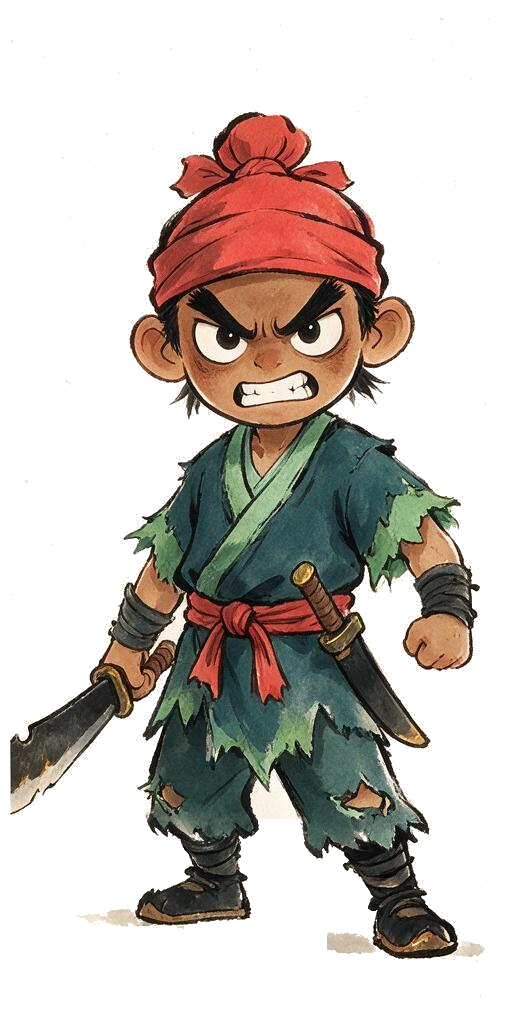
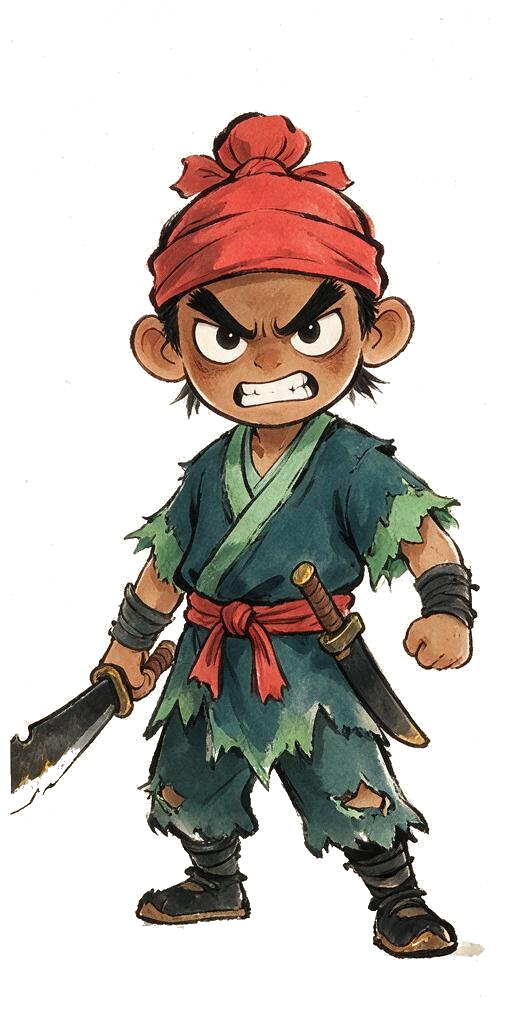
T04 返工②：山贼腿间残留二次清除（审计门过门）——工单点名4处（02腿间倒三角/左缘/脚下碎屑、03左下角）+ 完整审计清单追加3处腿部带块（02左脚下623px、02/03腰左596/1122px，原打印截断漏报），共清6607px；过门 audit_warmwhite_blocks.py 01~03 exit=0 腿部带全零，剩余块均属上身衣物设计区（33~41%带，勿动）；00/04~06帧与野狼帧未动

diff --git a/tasks/threads/T04.md b/tasks/threads/T04.md
@@ -8,3 +8,5 @@
 | 08-22 12:58 | CodeBuddy | 🔬✅ C 环 PASS · 归档 | **代码审查口径**：三零 ✓ 37/37（+7 新增）✓ 需求逐条对表 ✓ 禁区干净 ✓ 架构质量佳（纯函数/RNG 注入/降级策略/y 排序）。截图项 L 环豁免。📝非阻塞备注：rngFor() 以 configId 为 key 同类型共享种子流，确定性仍成立，建议 T06 前换实例 id。**流程缺口代补**：ZCode 未落回执未移交未提交 git——本行即代补交付登记；工单移 archive/。**待 Leo 示下：是否由 CodeBuddy 提交 git** |
 | 08-22 13:00 | Leo | ↩ 归档后返工：山贼腿间残留 | 山贼 NPC walk 帧两腿中间不透明。**同 hero 帧 Q1 第六轮同病**（AI 暖白底 cutout 漏咬，管线反馈预警过「NPC 帧表同病预防」，应验）。Leo 已让 ZCode 修复中。**解法参考**：①复用 hero 外科清除思路（git aa5aae1）——定位 spr_shanzei_01~03 腿间中央区域，近白像素（暖白系容差 ~45）置 alpha=0，深色靴/护腕/刀鞘不动 ②管线级修法：cutout_white_bg.py 加暖白容差参数或二遍 pass（野狼/狼王同病预防）③验证口径：腿间中心条带 alpha 全 0 + 本体像素不动 + 拼图目验 |
 | 08-22 13:40 | ZCode | ↩↪ 归档后返工完成 | ①山贼/野狼腿间暖白残留：8 帧外科清除（复测归零+拼图本体完好+preview 截图验证）②rngFor 实例隔离：Map<对象引用,Rng> + respawn clear（种子=configId哈希×实例序号），新增双系统轨迹一致回归用例 · 38/38 · 回执 done/T04-done.md · ZCode 侧 git 待提交（含 T04 全部交付物） |
+| 08-22 13:15 | CodeBuddy | ↩ 复验打回（返工②·范围很小） | **像素审计证据**：①❌ spr_shanzei_02 腿间倒三角 (250,769)~(300,819) 1440px 米白残留仍在（棋盘格放大目验铁证）+ 同帧左缘 948px/脚下 757px 碎屑 ②❌ spr_shanzei_03 左下角 494px 碎屑 ③✓ 01 帧干净 ④✓ 野狼三帧排除（白毛本体设计，非残留）⑤✓ 03 帧 (142,592) 块系手臂皮肤高光误报。**根因=复测口径盲区**：只测自清区域，漏网主残留。已沉淀客观审计门 scripts/audit_warmwhite_blocks.py（连通块扫描，exit code 可作 CI 门）——要求 ZCode 清除后以此全帧复测 |
+| 08-22 14:10 | ZCode | ↩↪ 返工②完成 | 审计基线坐实工单 4 处 + 完整清单多 3 处腿部带块（02左脚下623px/02·03腰左596·1122px，blocks[:6]打印截断所致漏报）→ 7 处全清（棋盘格目验定性→bbox外扩2px暖白系清除，共6607px）· **过门：audit 01~03 exit=0 腿部带全零**（剩余块均在上身33~41%衣物设计区，审计口径正常）· 00/04~06 未动 · 拼图终验本体完好 |

diff --git a/tasks/LOG.md b/tasks/LOG.md
@@ -4,6 +4,8 @@
 
 | 时间 | 方向 | 事件 | 详情 |
 |------|------|------|------|
+| 2026-08-22 14:10 | ZCode → CodeBuddy | ↩↪ T04 返工②完成 | 7 处暖白块清除（工单4+审计3）· audit walk帧 exit=0 腿部带全零 · 拼图终验完好 · git 提交注明返工② |
+| 2026-08-22 13:15 | CodeBuddy → ZCode | ↩ T04 返工②打回 | 山贼02帧腿间1440px残留实锤未清（自证口径盲区）· 01/野狼干净 · 审计门脚本已沉淀 scripts/audit_warmwhite_blocks.py · 待 ZCode 二次修复 |
 | 2026-08-22 13:40 | ZCode → CodeBuddy | ↩↪ T04 归档后返工完成 | ①山贼/野狼腿间暖白残留 8 帧外科清除（复测归零+目验）②rngFor 实例隔离（Leo 点名，Map<引用,Rng>+respawn clear+回归用例）· 38/38 · 回执 done/T04-done.md · ZCode git 提交中 |
 | 2026-08-22 13:00 | Leo → ZCode | ↩ T04 归档后返工 | 山贼 walk 帧腿间不透明（hero Q1 六轮同病，管线预警应验）· ZCode 修复中 · 解法参考已附 threads/T04（外科清除+管线暖白容差） |
 | 2026-08-22 12:58 | CodeBuddy | 🔬✅ C 环 T04 PASS·归档 | 代码审查口径：三零+37/37+需求对表+禁区干净 · 截图项 Leo 豁免（L 环已目验真实 UI）· 备注 rngFor configId 共享流（非阻塞，T06 前修）· ZCode 手续缺失代补登记 · **git 提交待 Leo 示下** |
